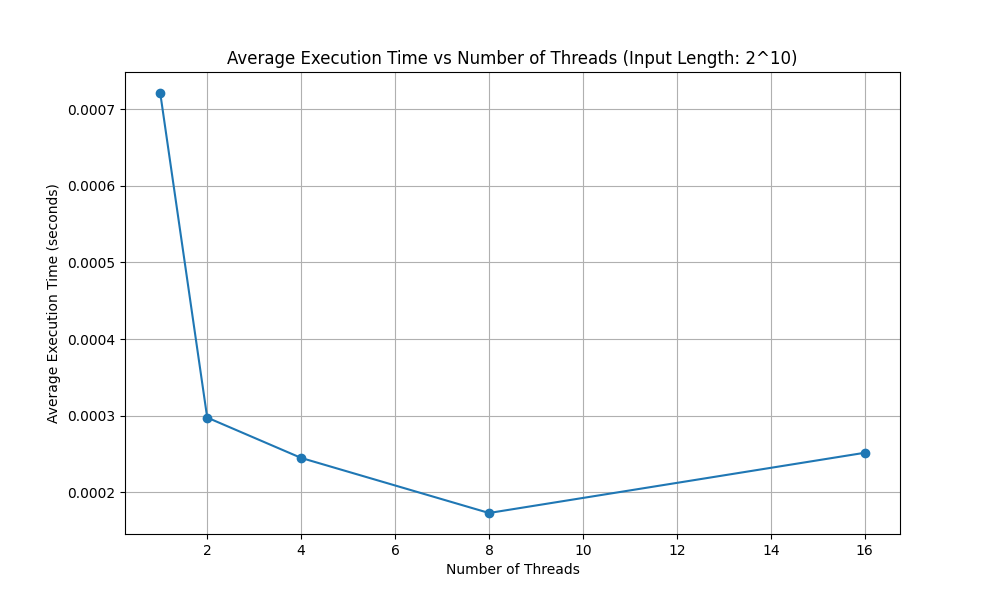
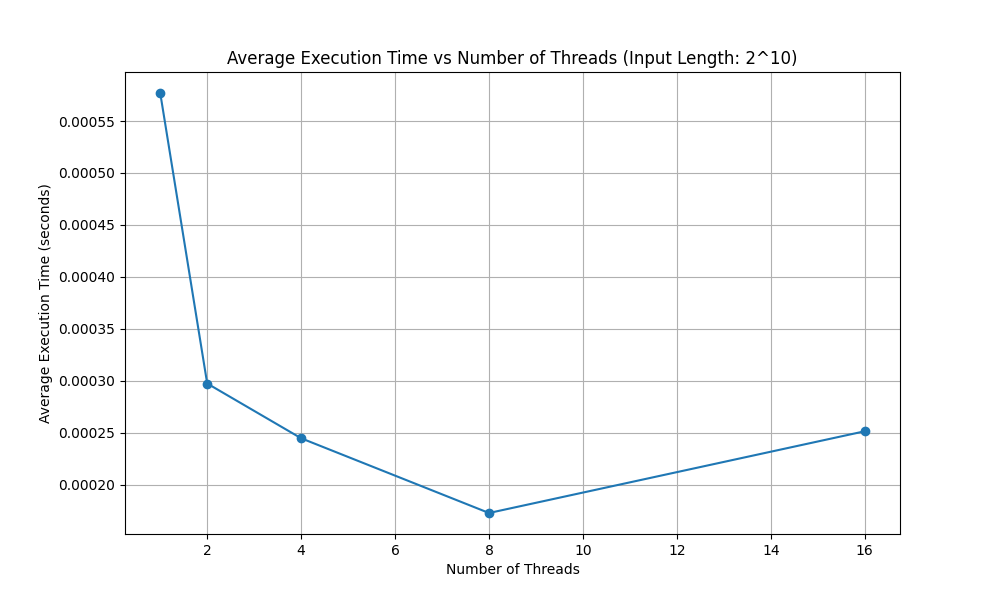
updated times

diff --git a/times/times.py b/times/times.py
@@ -1,0 +1,38 @@
+import matplotlib.pyplot as plt
+import pandas as pd
+
+# Sample data processing function
+def process_data(file_path):
+    data = []
+    with open(file_path, 'r') as file:
+        for line in file:
+            parts = line.strip().split()
+            if len(parts) == 3:
+                num_threads = int(parts[0])
+                input_length_exp = int(parts[1])
+                exec_time = float(parts[2])
+                data.append((num_threads, input_length_exp, exec_time))
+    return data
+
+# Generate plots
+def generate_plots(data):
+    df = pd.DataFrame(data, columns=['num_threads', 'input_length_exp', 'exec_time'])
+    
+    unique_input_lengths = df['input_length_exp'].unique()
+    
+    for input_length in unique_input_lengths:
+        subset = df[df['input_length_exp'] == input_length]
+        avg_exec_time = subset.groupby('num_threads')['exec_time'].mean().reset_index()
+        
+        plt.figure(figsize=(10, 6))
+        plt.plot(avg_exec_time['num_threads'], avg_exec_time['exec_time'], marker='o')
+        plt.title(f'Average Execution Time vs Number of Threads (Input Length: 2^{input_length})')
+        plt.xlabel('Number of Threads')
+        plt.ylabel('Average Execution Time (seconds)')
+        plt.grid(True)
+        plt.savefig(f'plot_input_length_2^{input_length}.png')
+        plt.close()
+
+# Example usage
+data = process_data('output.txt')  # Replace 'output.txt' with the actual file containing the standard output
+generate_plots(data)
